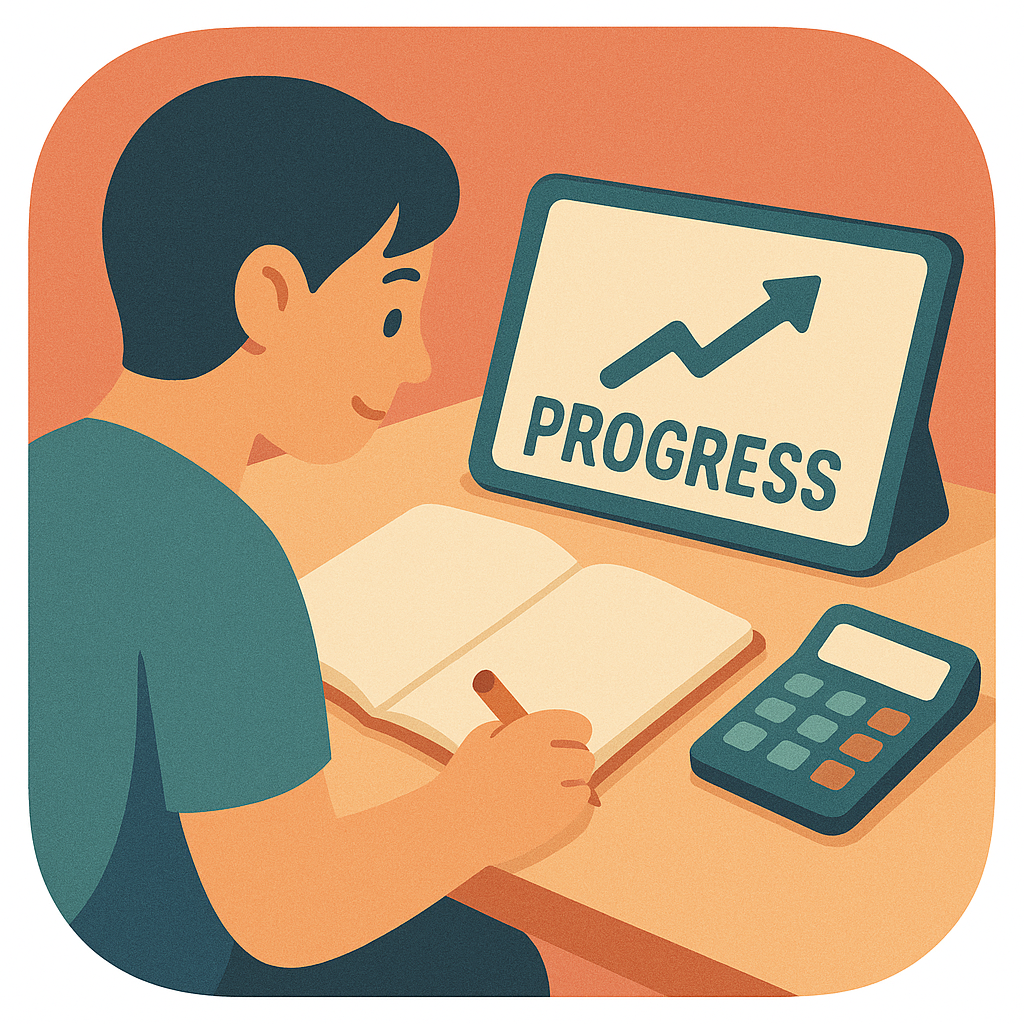
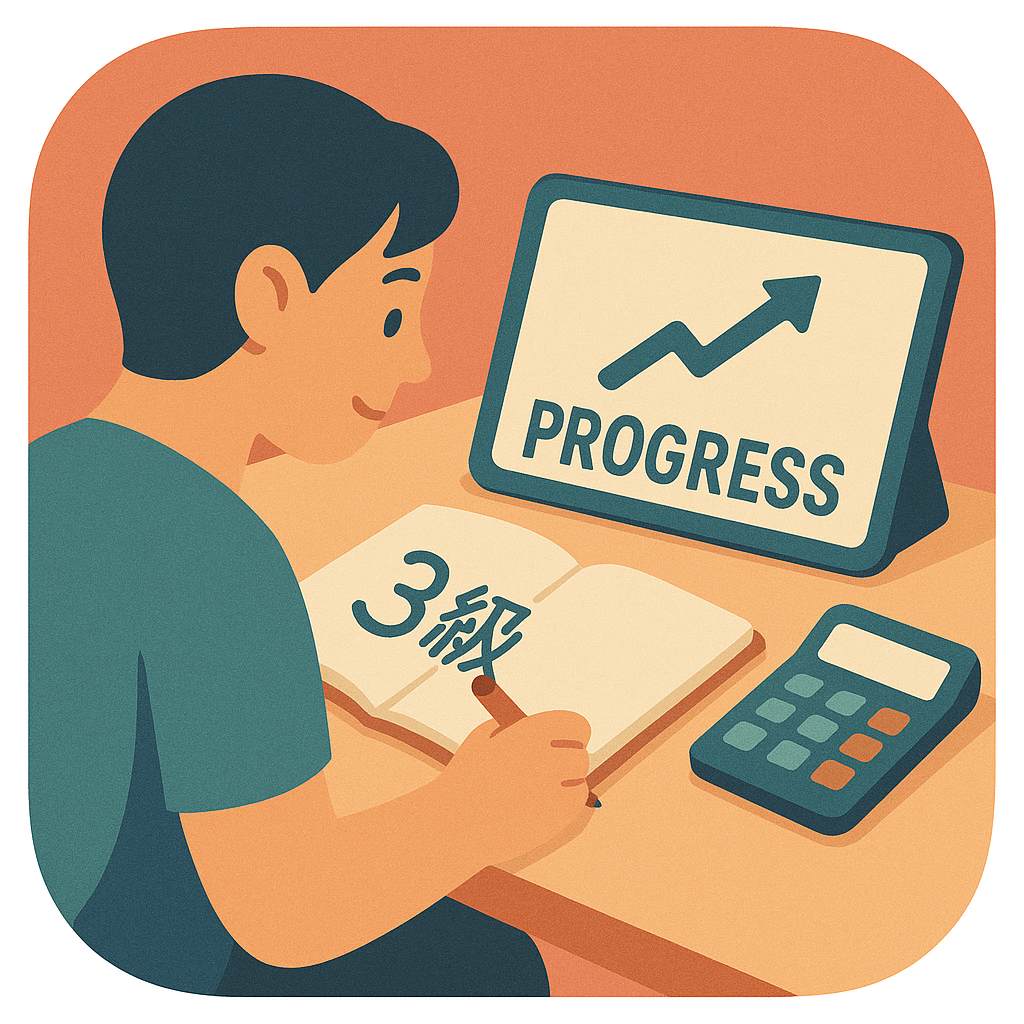
chore: ビルド番号を14に更新（TestFlight配信準備）
変更内容:
- アプリアイコンを新デザインに更新
- ビルド番号: 13 → 14
- 財務諸表フォントサイズ調整ログを追加

TestFlight配信用の準備完了

🤖 Generated with [Claude Code](https://claude.com/claude-code)

diff --git a/docs/development-logs/2025-01-26-financial-statement-font-size-adjustment.md b/docs/development-logs/2025-01-26-financial-statement-font-size-adjustment.md
@@ -1,0 +1,111 @@
+# Q3_FS_015 財務諸表フォントサイズ調整ログ
+
+**日時**: 2025年1月26日 23:28
+
+## 問題
+
+Q3_FS_015（損益計算書と貸借対照表の統合問題）で、一部の項目名が2行で表示されていました。
+
+### 2行表示になっていた項目
+
+**損益計算書:**
+
+- 「販売費及び一般管理費合計」
+
+**貸借対照表:**
+
+- 「建物減価償却累計額」
+- 「備品減価償却累計額」
+- 「流動資産合計」
+- 「固定資産合計」
+- 「流動負債合計」
+- 「固定負債合計」
+- 「繰越利益剰余金」
+- 「純資産合計」
+
+## 原因
+
+FillInFinancialStatementForm.tsxのlabelTextスタイルのフォントサイズが大きすぎて、長い項目名（10文字以上）が画面幅に収まらず、2行に折り返されていました。
+
+## 修正内容
+
+### ファイル
+
+- `src/components/cbt/FillInFinancialStatementForm.tsx`
+
+### 変更内容
+
+項目名（ラベル）のフォントサイズを縮小：
+
+```typescript
+// 修正前
+labelText: {
+  fontSize: 15,
+  color: theme.colors.text,
+  lineHeight: 20,
+},
+labelTextBold: {
+  fontWeight: "bold",
+  fontSize: 16,
+  color: theme.colors.text,
+},
+
+// 修正後
+labelText: {
+  fontSize: 13,
+  color: theme.colors.text,
+  lineHeight: 18,
+},
+labelTextBold: {
+  fontWeight: "bold",
+  fontSize: 14,
+  color: theme.colors.text,
+},
+```
+
+**変更点:**
+
+- 通常の項目名: `fontSize: 15` → `fontSize: 13` (2px縮小)
+- 太字の項目名: `fontSize: 16` → `fontSize: 14` (2px縮小)
+- 行間: `lineHeight: 20` → `lineHeight: 18` (2px縮小)
+
+## 検証結果
+
+### テスト環境
+
+- シミュレーター: iPhone 16
+- 問題: Q3_FS_015（財務諸表穴埋め問題）
+
+### 確認項目
+
+✅ 「販売費及び一般管理費合計」が1行で表示
+✅ 「建物減価償却累計額」が1行で表示
+✅ 「備品減価償却累計額」が1行で表示
+✅ 「流動資産合計」が1行で表示
+✅ 「固定資産合計」が1行で表示
+✅ 「流動負債合計」が1行で表示
+✅ 「固定負債合計」が1行で表示
+✅ 「繰越利益剰余金」が1行で表示
+✅ 「純資産合計」が1行で表示
+
+### 他の問題への影響
+
+この修正は以下の財務諸表問題すべてに適用されます：
+
+- Q3_FS_001-005: 旧形式（直接items配列）
+- Q3_FS_006, 008, 010, 012, 014: sections形式
+- Q3_FS_015: comprehensive形式（損益計算書+貸借対照表）
+
+すべての形式で同じスタイル定義を使用しているため、長い項目名が含まれる問題すべてで表示が改善されます。
+
+## 結論
+
+フォントサイズを2px縮小することで、最長12文字の項目名（「販売費及び一般管理費合計」「建物減価償却累計額」など）が1行に収まるようになり、ユーザビリティが向上しました。
+
+可読性は維持されており、問題なく利用できることを確認しました。
+
+---
+
+**修正者**: Claude Code
+**関連Issue**: Q3_FS_015表示改善
+**影響範囲**: 財務諸表穴埋め問題全50問
